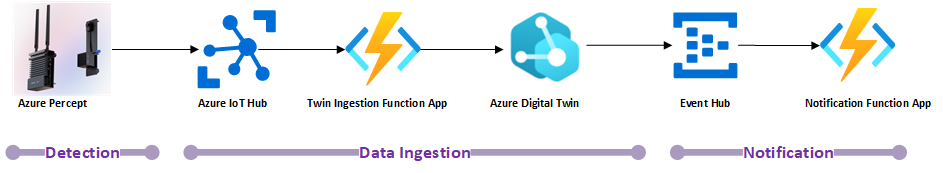
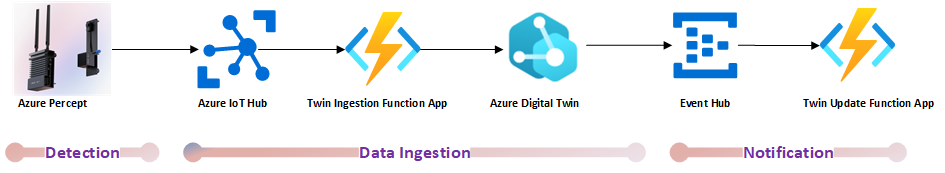
Checked in code for Twin Update Function App

diff --git a/adt/Readme.md b/adt/Readme.md
@@ -104,7 +104,85 @@ Here is how the model will look like once it is created on Azure Digital Twin us
 
 ### Functions Apps Setup
 
-#### Twins App
+#### Twins Ingestion App
+
+![Twins Ingestion Function App](./images/twins-ingestion-function-app.png "Twins Ingestion Function App]")
+
+
+```csharp
+namespace TwinIngestionFunctionApp
+{
+    using Azure;
+    using Azure.Core.Pipeline;
+    using Azure.DigitalTwins.Core;
+    using Azure.Identity;
+    using Microsoft.Azure.EventHubs;
+    using Microsoft.Azure.WebJobs;
+    using Microsoft.Extensions.Logging;
+    using Newtonsoft.Json;
+    using Newtonsoft.Json.Linq;
+    using System;
+    using System.Net.Http;
+    using System.Text;
+    using IoTHubTrigger = Microsoft.Azure.WebJobs.EventHubTriggerAttribute;
+
+    public class TwinsFunction
+    {
+        private static readonly string adtInstanceUrl = Environment.GetEnvironmentVariable("ADT_SERVICE_URL");
+        private static HttpClient httpClient = new HttpClient();
+
+        [FunctionName("TwinsFunction")]
+        public async void Run([IoTHubTrigger("messages/events", Connection = "EventHubConnectionString")] EventData message, ILogger log)
+        {
+
+            if (adtInstanceUrl == null) log.LogError("Application setting \"ADT_SERVICE_URL\" not set");
+            {
+                try
+                {
+                    //Authenticate with Digital Twins
+                    ManagedIdentityCredential cred = new ManagedIdentityCredential("https://digitaltwins.azure.net");
+                    DigitalTwinsClient client = new DigitalTwinsClient(new Uri(adtInstanceUrl), cred, new DigitalTwinsClientOptions { Transport = new HttpClientTransport(httpClient) });
+                    if (message != null && message.Body != null)
+                    {
+                        log.LogInformation(Encoding.UTF8.GetString(message.Body.Array));
+
+                        // Reading AI data for IoT Hub JSON
+                        JObject deviceMessage = (JObject)JsonConvert.DeserializeObject(Encoding.UTF8.GetString(message.Body.Array));
+                        string label = deviceMessage["NEURAL_NETWORK"][0]["label"].ToString();
+                        string confidence = deviceMessage["NEURAL_NETWORK"][0]["confidence"].ToString();
+                        string timestamp = deviceMessage["NEURAL_NETWORK"][0]["timestamp"].ToString();
+                        if(!(string.IsNullOrEmpty(label) && string.IsNullOrEmpty(confidence) && string.IsNullOrEmpty(timestamp)))
+                        {
+                            var updateTwinData = new JsonPatchDocument();
+                            updateTwinData.AppendAdd("/Label", label);
+                            updateTwinData.AppendAdd("/Confidence", confidence);
+                            updateTwinData.AppendAdd("/timestamp", timestamp);
+                            await client.UpdateDigitalTwinAsync("PerceptSiteFloor", updateTwinData);
+                            log.LogInformation($"Updated Device: PerceptSiteFloor with { updateTwinData} at: {DateTime.Now.ToString()}");
+                        }
+                    }
+                }
+                catch (Exception e)
+                {
+                    log.LogError(e.Message);
+                }
+
+            }
+        }
+    }
+}
+```
 
 Details mentioned at: [TwinsIngestionFunctionApp](https://github.com/nabeelmsft/percept/tree/main/adt/apps/TwinIngestionFunctionApp)
 
+#### Setting up Azure Digital Twin to push messages to Event Hub
+
+1. Create EventHub Namespace
+1. Create event hub
+1. Create event hub route
+1. Update Azure Digital Twin to route message to event hub
+
+
+#### Twins Update App
+
+![Twins Update Function App](./images/twins-update-function-app.png "Twins Update Function App]")

diff --git a/adt/apps/TwinsUpdateFunctionApp/README.md b/adt/apps/TwinsUpdateFunctionApp/README.md
@@ -1,3 +1,28 @@
+# Consuming device data from Azure IoT Hub by Azure Digital Twins
+
+## Overview
+
+In this post we will see how easy it is to consume device data from Azure IoT Hub by Azure Digital Twins.
+
+## Data Flow
+
+![Data Flow](./images/dataingestionflow.png "Data Flow")
+
+## Prerequisites
+
+- Azure Subcription
+- Admin Access to Azure AD Tenant & Azure Subscription
+- Mac OS: [PowerShell for Mac](https://docs.microsoft.com/en-us/powershell/scripting/install/installing-powershell-core-on-macos?view=powershell-6 )
+- Windows OS: PowerShell is built-in
+- Azure Digital Twin Instance. Get host address of Azure Digital Twin instance's as ADT_SERVICE_URL App setting for the Azure Function App.
+- Device connected to Azure IoT Hub. Get the Event Hub-compatible endpoint from the Built-in endpoints from the Azure IoT Hub.
+
+
+## Connecting Azure IoT Hub with Azure Digital Twin
+
+### Function code
+
+```csharp
 namespace TwinsUpdateFunctionApp
 {
     using System;
@@ -74,3 +99,13 @@ namespace TwinsUpdateFunctionApp
         }
     }
 }
+
+```
+
+Here is how data looks like on Azure Digital Twin Explore:
+
+![Data Flow](./images/azuredigitaltwinexplorer.PNG "Data Flow")
+
+## Conclusion
+
+Using Azure.DigitalTwins.Core library we can create data flow pipeline to Azure Digital Twin.
